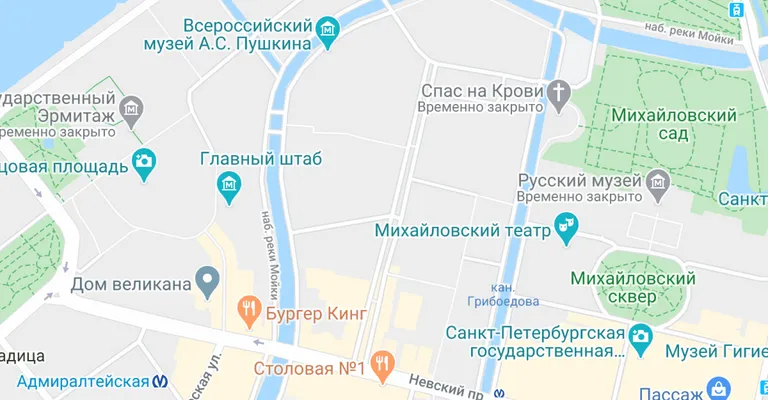
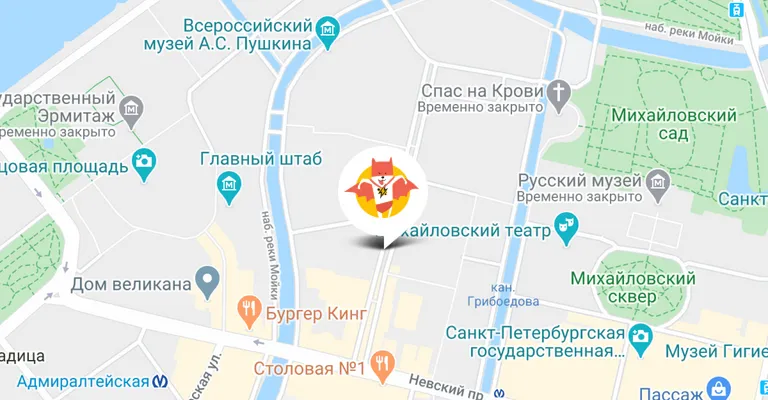
Добавляет iframe и карту

Changed region(s): [[0.4375, 0.39, 0.5625, 0.63]]

diff --git a/source/index.html b/source/index.html
@@ -167,12 +167,18 @@
     <section class="map">
       <div class="container">
         <div class="map__description-container">
-          <h2 class="visually-hidden">Местонахождение на карте</h2>
+          <h2 class="visually-hidden">Контакты</h2>
           <p class="map__description">Приглашаем к сотрудничеству дилеров!</p>
           <address class="map__address">ул. Большая Конюшенная, д. 19/8</address><span class="map__address">Санкт-Петербург</span>
         </div>
-        <div class="map__location">
-        </div>
+      </div>
+      <div class="map__location">
+        <picture>
+          <source media="(min-width: 1300px)" width="1440" height="400" type="image/png" srcset="images/map-desktop@1x.png 1x, images/map-desktop@2x.png 2x">
+          <source media="(min-width: 768px)" width="768" height="400" type="image/png" srcset="images/map-tablet@1x.png 1x, images/map-tablet@2x.png 2x">
+          <img class="map__location-img" src="images/map-mobile@1x.png" srcset="images/map-mobile@2x.png 2x" width="320" height="362" alt="Местонахождение на карте">
+        </picture>
+        <iframe class="map__location-iframe" src="https://www.google.com/maps/embed?pb=!1m18!1m12!1m3!1d1998.6094560304048!2d30.323465821758433!3d59.93862242360575!2m3!1f0!2f0!3f0!3m2!1i1024!2i768!4f13.1!3m3!1m2!1s0x4696310fca145cc1%3A0x42b32648d8238007!2z0JHQvtC70YzRiNCw0Y8g0JrQvtC90Y7RiNC10L3QvdCw0Y8g0YPQuy4sIDE5LzgsINCh0LDQvdC60YIt0J_QtdGC0LXRgNCx0YPRgNCzLCAxOTExODY!5e0!3m2!1sru!2sru!4v1714467114008!5m2!1sru!2sru" width="600" height="450" style="border:0;" allowfullscreen="" loading="lazy" referrerpolicy="no-referrer-when-downgrade"></iframe>
       </div>
     </section>
 

diff --git a/source/styles/blocks/map.scss b/source/styles/blocks/map.scss
@@ -13,3 +13,38 @@
   font-size: 14px;
   line-height: 20px;
 }
+
+.map__location {
+  min-height: 362px;
+  width: 100%;
+
+  @media (min-width: 768px) {
+    min-height: 400px;
+  }
+
+  @media (min-width: 1300px) {
+    min-height: 400px;
+  }
+}
+
+.map__location-img {
+  display: block;
+  position: absolute;
+  left: 50%;
+  transform: translateX(-50%);
+}
+
+.map__location-iframe {
+  border: none;
+  display: block;
+  width: 100%;
+  position: relative;
+
+  @media (min-width: 768px) {
+    height: 400px;
+  }
+
+  @media (min-width: 1300px) {
+    height: 400px;
+  }
+}

diff --git a/source/styles/blocks/hero.scss b/source/styles/blocks/hero.scss
@@ -15,7 +15,6 @@
   }
 }
 
-
 .hero__title {
   font-family: $title-font;
   font-size: 36px;

diff --git a/source/styles/blocks/example.scss b/source/styles/blocks/example.scss
@@ -76,4 +76,3 @@
   color: $title-color-text;
   text-transform: uppercase;
 }
-

diff --git a/source/styles/blocks/container.scss b/source/styles/blocks/container.scss
@@ -11,4 +11,3 @@
     width: 1220px;
   }
 }
-
